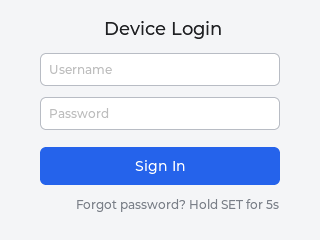
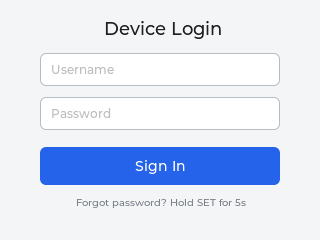
Address CodeRabbit review findings on Phase 0 spike
- Ignore spike/render/lvgl/ local LVGL checkout
- Enable and register montserrat_10 so 11px text maps down correctly
- Use extracted CSS padding-left for lv_textarea horizontal padding
- Extract side-specific bottom borders and emit style_border_side,
  restoring the settings page row separators
- Add language identifier to README pipeline diagram fence (MD040)
- Harden read_file: check fseek/ftell/malloc results
- Harden write_bmp: check fwrite/malloc/fclose so truncated output
  cannot pass as success

Regenerated spike/out artifacts with the rebuilt harness.

Claude-Session: https://claude.ai/code/session_01NxkTpDaFfzDVf7GSxxdTP9

Changed region(s): [[0.2188, 0.8167, 0.875, 0.875], [0.1562, 0.2625, 0.375, 0.3208], [0.1562, 0.4375, 0.3438, 0.4958]]

diff --git a/spike/render/main.c b/spike/render/main.c
@@ -32,10 +32,12 @@ static char * read_file(const char * path)
 {
     FILE * f = fopen(path, "rb");
     if(!f) return NULL;
-    fseek(f, 0, SEEK_END);
+    if(fseek(f, 0, SEEK_END) != 0) { fclose(f); return NULL; }
     long len = ftell(f);
-    fseek(f, 0, SEEK_SET);
+    if(len < 0) { fclose(f); return NULL; }
+    if(fseek(f, 0, SEEK_SET) != 0) { fclose(f); return NULL; }
     char * buf = malloc((size_t)len + 1);
+    if(!buf) { fclose(f); return NULL; }
     if(fread(buf, 1, (size_t)len, f) != (size_t)len) { fclose(f); free(buf); return NULL; }
     buf[len] = '\0';
     fclose(f);
@@ -61,9 +63,10 @@ static int write_bmp(const char * path)
     uint16_t planes = 1;          memcpy(header + 26, &planes, 2);
     uint16_t bpp = 24;            memcpy(header + 28, &bpp, 2);
     memcpy(header + 34, &image_size, 4);
-    fwrite(header, 1, 54, f);
+    if(fwrite(header, 1, 54, f) != 54) { fclose(f); return -1; }
 
     uint8_t * row = malloc((size_t)row_bytes);
+    if(!row) { fclose(f); return -1; }
     memset(row, 0, (size_t)row_bytes);
     for(int y = VER_RES - 1; y >= 0; y--) {   /* BMP rows are bottom-up */
         const uint8_t * src = &framebuffer[y * HOR_RES * 4];
@@ -72,11 +75,14 @@ static int write_bmp(const char * path)
             row[x * 3 + 1] = src[x * 4 + 1];  /* G */
             row[x * 3 + 2] = src[x * 4 + 2];  /* R */
         }
-        fwrite(row, 1, (size_t)row_bytes, f);
+        if(fwrite(row, 1, (size_t)row_bytes, f) != (size_t)row_bytes) {
+            free(row);
+            fclose(f);
+            return -1;
+        }
     }
     free(row);
-    fclose(f);
-    return 0;
+    return fclose(f) == 0 ? 0 : -1;
 }
 
 int main(int argc, char ** argv)
@@ -102,6 +108,7 @@ int main(int argc, char ** argv)
     lv_xml_init();
 
     /* Fonts the converter's nearest-size mapping can reference by name */
+    lv_xml_register_font(NULL, "montserrat_10", &lv_font_montserrat_10);
     lv_xml_register_font(NULL, "montserrat_12", &lv_font_montserrat_12);
     lv_xml_register_font(NULL, "montserrat_14", &lv_font_montserrat_14);
     lv_xml_register_font(NULL, "montserrat_16", &lv_font_montserrat_16);

diff --git a/spike/render/lv_conf.h b/spike/render/lv_conf.h
@@ -13,6 +13,7 @@
 #define LV_USE_OBJ_NAME 1
 
 /* Font sizes the HTML converter can map CSS font-size onto */
+#define LV_FONT_MONTSERRAT_10 1
 #define LV_FONT_MONTSERRAT_12 1
 #define LV_FONT_MONTSERRAT_14 1
 #define LV_FONT_MONTSERRAT_16 1

diff --git a/spike/README.md b/spike/README.md
@@ -2,7 +2,7 @@
 
 This spike validates the core loop proposed in [`../RESEARCH.md`](../RESEARCH.md):
 
-```
+```text
 HTML page ──► headless Chromium ──► UI-tree JSON ──► LVGL XML ──► headless LVGL v9.4 ──► framebuffer PNG
               (extract.mjs:                (convert.mjs)          (render/main.c:
                DOM walk +                                          lv_xml runtime +
